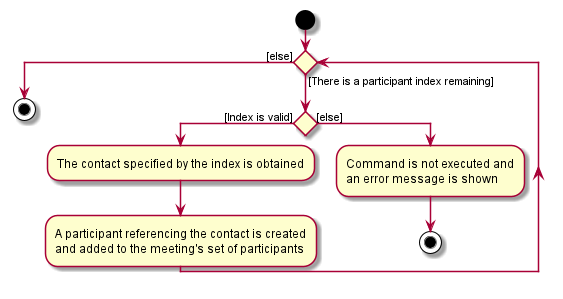
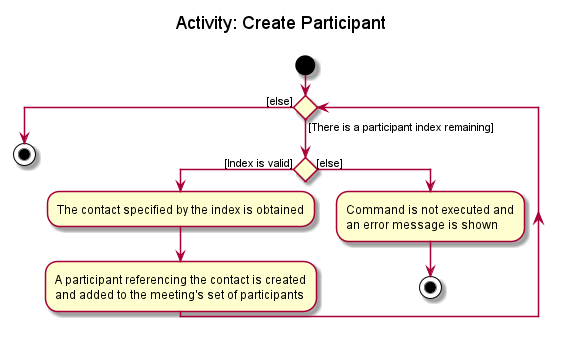
Update DG for logic component, write implementation for addm feature

Changed region(s): [[0.0, 0.0301, 0.9663, 0.9331]]

diff --git a/src/main/java/seedu/address/logic/parser/AddMeetingCommandParser.java b/src/main/java/seedu/address/logic/parser/AddMeetingCommandParser.java
@@ -40,7 +40,6 @@ public class AddMeetingCommandParser implements Parser<AddMeetingCommand> {
             throw new ParseException(String.format(MESSAGE_INVALID_COMMAND_FORMAT, AddMeetingCommand.MESSAGE_USAGE));
         }
 
-        // UPDATE WITH MODEL'S CLASSES
         MeetingName meetingName = ParserUtil.parseMeetingName(argMultimap.getValue(PREFIX_MEETING_NAME).get());
         MeetingDate date = ParserUtil.parseMeetingDate(argMultimap.getValue(PREFIX_DATE).get());
         StartTime startTime = ParserUtil.parseStartTime(argMultimap.getValue(PREFIX_START_TIME).get());

diff --git a/docs/DeveloperGuide.md b/docs/DeveloperGuide.md
@@ -98,9 +98,9 @@ How the `Logic` component works:
 1. The command can communicate with the `Model` when it is executed (e.g. to add a person).
 1. The result of the command execution is encapsulated as a `CommandResult` object which is returned back from `Logic`.
 
-The Sequence Diagram below illustrates the interactions within the `Logic` component for the `execute("delete 1")` API call.
+The Sequence Diagram below illustrates the interactions within the `Logic` component for the `execute("deletec 1")` API call.
 
-![Interactions Inside the Logic Component for the `delete 1` Command](images/DeleteSequenceDiagram.png)
+![Interactions Inside the Logic Component for the `deletec 1` Command](images/DeleteSequenceDiagram.png)
 
 <div markdown="span" class="alert alert-info">:information_source: **Note:** The lifeline for `DeleteCommandParser` should end at the destroy marker (X) but due to a limitation of PlantUML, the lifeline reaches the end of diagram.
 </div>
@@ -154,6 +154,34 @@ Classes used by multiple components are in the `seedu.addressbook.commons` packa
 ## **Implementation**
 
 This section describes some noteworthy details on how certain features are implemented.
+
+### Add Meeting feature
+
+This section describes how a ```Meeting``` object is added to the list of meetings using the ```addm``` command. 
+
+#### Implementation
+
+A ```Meeting``` object in AddresSoc consists of ```MeetingName```,```MeetingDate```,```StartTime```,```EndTime```,
+as well as the optional ```Tags``` and ```Participants``` fields. Upon the ```addm``` command being called with the
+relevant fields provided, a ```Meeting``` will be added to the ```UniqueMeetingList```.
+
+Given below is an example usage scenario and how the ```addm``` command behaves at each step.
+1. The user inputs the command ```addm mn/2103 Meeting d/25/03/2022 st/1600 et/1800 t/Important pt/2 pt/3```
+2. The user input is passed into ```AddressBookParser``` which matches the ```addm``` command word and passes the arguments to ```AddMeetingCommandParser```.
+3. ```AddMeetingCommandParser``` parses the arguments according to the prefixes and constructs a ```AddMeetingCommand``` object.
+4. The ```AddMeetingCommand``` object is returned to ```LogicManager``` to be executed. During execution, the ```Meeting``` object with the given fields is constructed and added to the ```UniqueMeetingList```.
+
+####Sequence Diagram
+The sequence diagram below shows the execution of the above example:
+
+![Interactions Inside the Logic Component for the `addm mn/2103 Meeting d/25/03/2022 st/1600 et/1800 t/Important pt/2 pt/3` Command](images/AddMeetingSequenceDiagram.png)
+<div markdown="span" class="alert alert-info">:information_source: **Note:** The lifeline for `AddMeetingCommandParser` should end at the destroy marker (X) but due to a limitation of PlantUML, the lifeline reaches the end of diagram.
+</div>
+
+####Activity Diagram
+The activity diagram below shows the execution of the above example:
+
+![Add Meeting activity diagram](images/AddMeetingActivityDiagram.png)
 
 ### \[Proposed\] Undo/redo feature
 
@@ -257,6 +285,8 @@ general process of creating and adding `Participants` to a `Meeting`'s participa
 4. Repeat steps 1 to 3 for all indexes given by the user.
 
 This process is summarised in the activity diagram below.
+
+Activity: Create Participant
 
 ![CreateParticipantActivityDiagram](images/CreateParticipantActivityDiagram.png)
 
